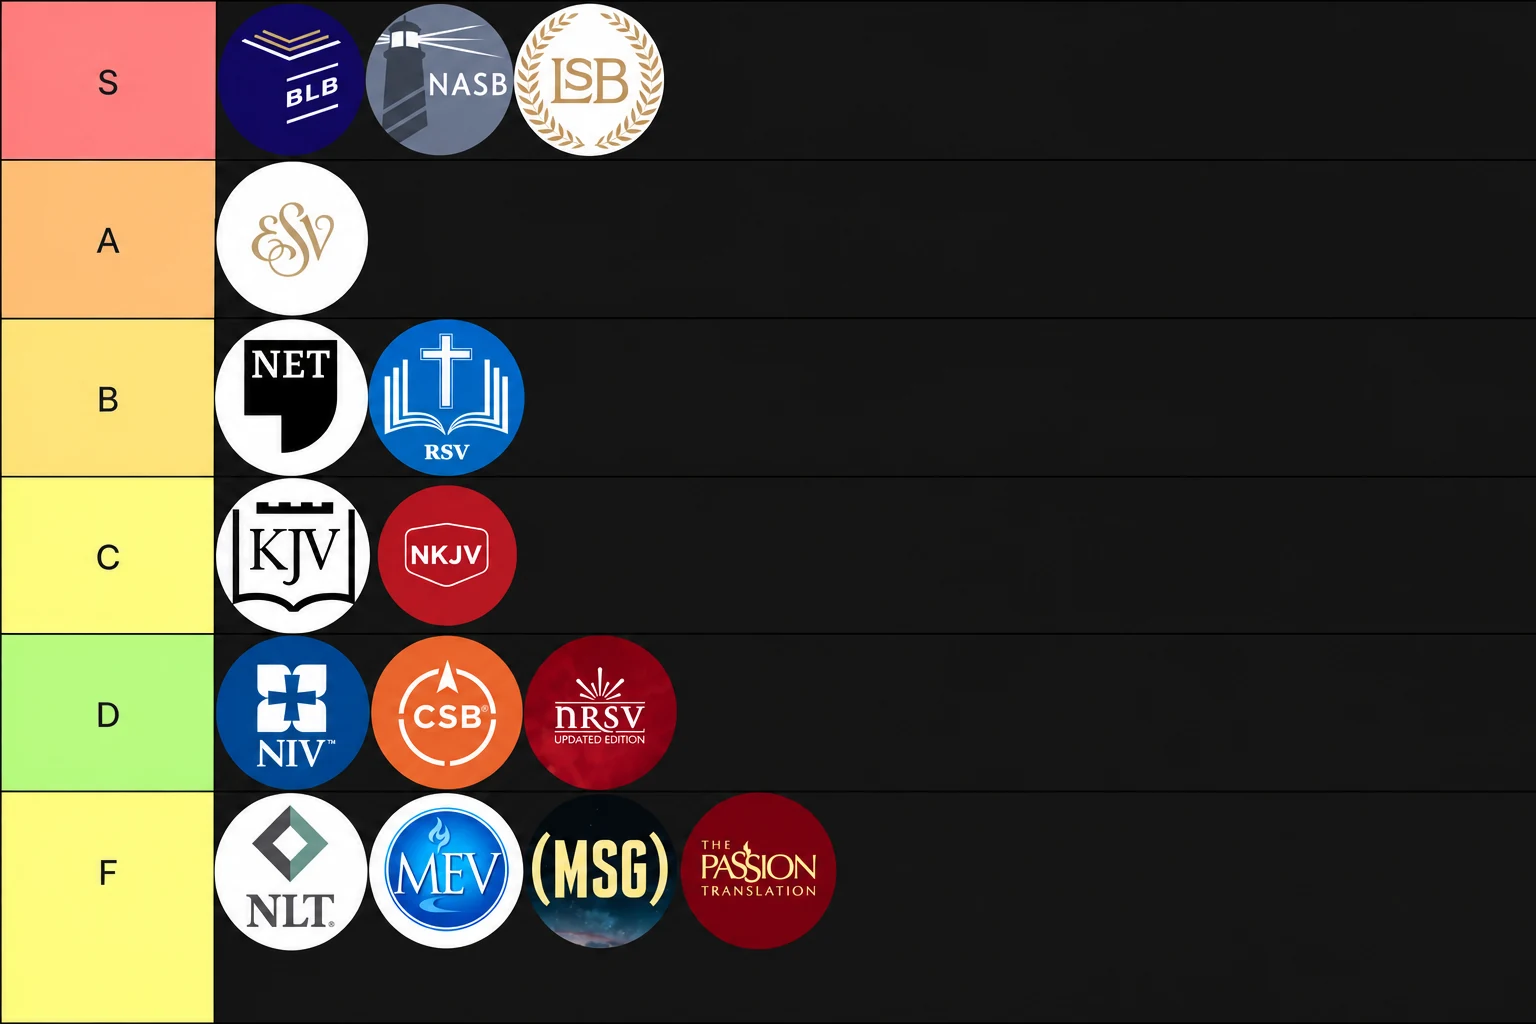
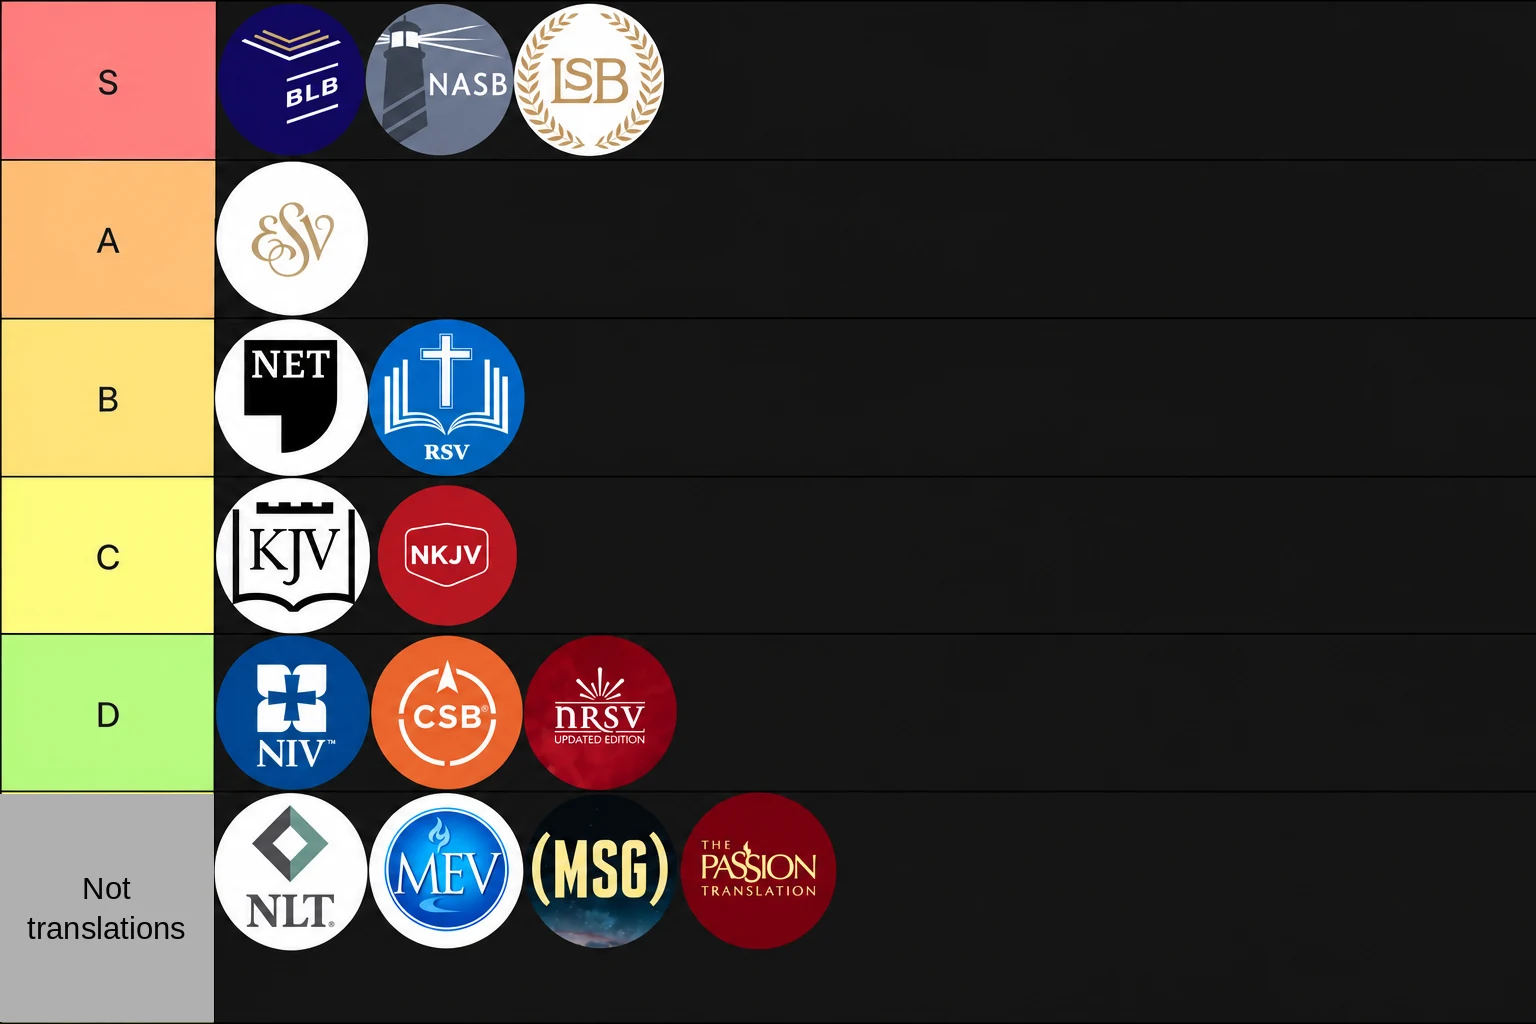
Label the tier-list picture's bottom row 'Not translations', as the page does
The picture's last row read F, in the same yellow as C, while the written page
heads those four (NLT, MEV, The Message, The Passion Translation) 'Not
translations', ungraded. The row now reads 'Not translations' on a neutral
grey, so it does not look like a grade, and the alt text matches.

Claude-Session: https://claude.ai/code/session_017wHy3Ufz7NsTcR9t6dvjCi

Changed region(s): [[0.0, 0.75, 0.1562, 1.0]]

diff --git a/js/guide.js b/js/guide.js
@@ -14,7 +14,7 @@ function viewTranslations() {
   <h1>${esc(t.title)}</h1>
   <p class="lede">${esc(t.lede)}</p>
   <p class="lede" style="margin-top:8px">${esc(t.standard)}</p>
-  <figure class="tierfig"><img src="img/translations-tier-list.webp" width="1536" height="1024" alt="The tier list as a chart. S: BLB, NASB, LSB. A: ESV. B: NET, RSV. C: KJV, NKJV. D: NIV, CSB, NRSV Updated Edition. F: NLT, MEV, The Message, The Passion Translation.">
+  <figure class="tierfig"><img src="img/translations-tier-list.webp" width="1536" height="1024" alt="The tier list as a chart. S: BLB, NASB, LSB. A: ESV. B: NET, RSV. C: KJV, NKJV. D: NIV, CSB, NRSV Updated Edition. Not translations: NLT, MEV, The Message, The Passion Translation.">
     <figcaption class="cap">The list at a glance. The reasons for every placement follow.</figcaption></figure>
   ${tiers}
   <dl class="use">${t.use.map(u => `<div><dt>${esc(u[0])}</dt><dd>${esc(u[1])}</dd></div>`).join('')}</dl>

diff --git a/app.html b/app.html
@@ -140,7 +140,7 @@
 <script src="js/readerbar.js?v=b1cab6d843"></script>
 <script src="js/marks.js?v=6cd649b7ab"></script>
 <script src="js/backup.js?v=a95b2c74f1"></script>
-<script src="js/guide.js?v=1418b3bf8a"></script>
+<script src="js/guide.js?v=c02571d032"></script>
 <script src="js/pages.js?v=ad09aa3bf7"></script>
 <script src="js/analytics.js?v=3fe32ca2fe"></script>
 <script src="js/chrome.js?v=cda3657906"></script>

diff --git a/index.html b/index.html
@@ -73,7 +73,7 @@
 <script src="js/readerbar.js?v=b1cab6d843"></script>
 <script src="js/marks.js?v=6cd649b7ab"></script>
 <script src="js/backup.js?v=a95b2c74f1"></script>
-<script src="js/guide.js?v=1418b3bf8a"></script>
+<script src="js/guide.js?v=c02571d032"></script>
 <script src="js/pages.js?v=ad09aa3bf7"></script>
 <script src="js/analytics.js?v=3fe32ca2fe"></script>
 <script src="js/chrome.js?v=cda3657906"></script>
